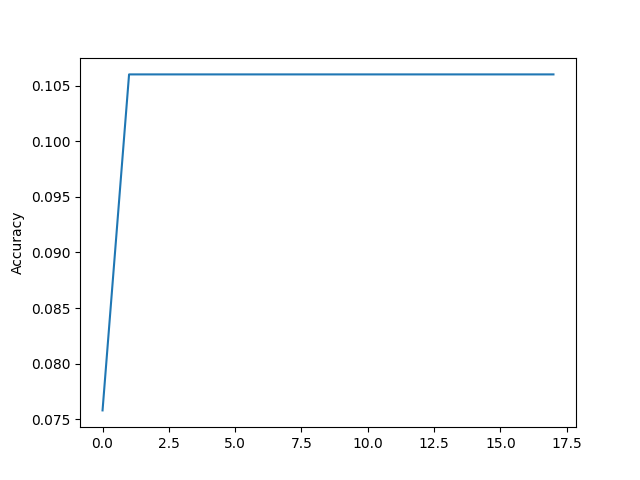
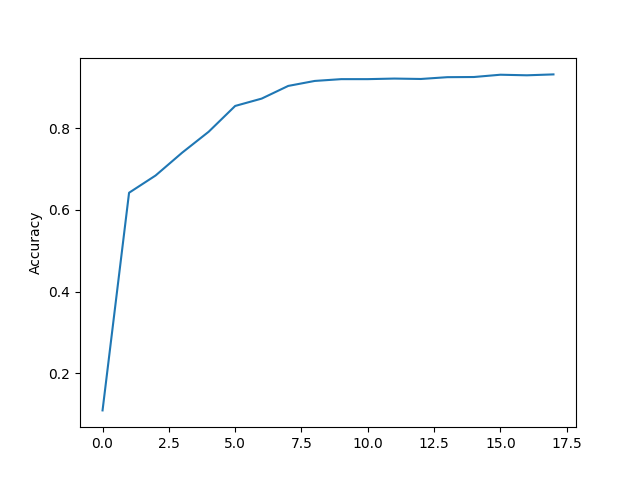
Finish part 1

diff --git a/handout1/hw1/mnist.py b/handout1/hw1/mnist.py
@@ -1,6 +1,6 @@
 """Problem 3 - Training on MNIST"""
 import numpy as np
-import torch
+
 # TODO: Import any mytorch packages you need (XELoss, SGD, etc)
 
 # NOTE: Batch size pre-set to 100. Shouldn't need to change.
@@ -19,10 +19,10 @@ def mnist(train_x, train_y, val_x, val_y):
     """Problem 3.1: Initialize objects and start training
     You won't need to call this function yourself.
     (Data is provided by autograder)
-    
+
     Args:
-        train_x (np.array): training data (55000, 784) 
-        train_y (np.array): training labels (55000,) 
+        train_x (np.array): training data (55000, 784)
+        train_y (np.array): training labels (55000,)
         val_x (np.array): validation data (5000, 784)
         val_y (np.array): validation labels (5000,)
     Returns:
@@ -32,7 +32,7 @@ def mnist(train_x, train_y, val_x, val_y):
     # TODO: Initialize an MLP, optimizer, and criterion
     my_model = Sequential(Linear(784, 20), BatchNorm1d(20), ReLU(), Linear(20, 10))
     # TODO: Call training routine (make sure to write it below)
-    optimizer = SGD(my_model.parameters(), lr=0.01, momentum=0.2)
+    optimizer = SGD(my_model.parameters(), lr=0.001, momentum=0.9)
     criterion = CrossEntropyLoss()
     val_accuracies = train(my_model, optimizer, criterion, train_x, train_y, val_x, val_y)
     return val_accuracies
@@ -50,6 +50,7 @@ def train(model, optimizer, criterion, train_x, train_y, val_x, val_y, num_epoch
         model.train()
         np.random.seed(11785)
         np.random.shuffle(train_x)
+        np.random.seed(11785)
         np.random.shuffle(train_y)
         batches_x = np.split(train_x, train_x.shape[0] // BATCH_SIZE)
         batches_y = np.split(train_y, train_y.shape[0] // BATCH_SIZE)
@@ -60,7 +61,6 @@ def train(model, optimizer, criterion, train_x, train_y, val_x, val_y, num_epoch
             out = model(tensor_data)
             loss = criterion(out, tensor_label)
             loss.backward()
-            print('loss:', loss.data)
             optimizer.step()
             if i % 100 == 0:
                 accuracy = validate(model, val_x, val_y)
@@ -93,4 +93,5 @@ def validate(model, val_x, val_y):
         # print(cnt)
         # accuracy += cnt / len(labels)
     # return accuracy / (val_y.shape[0] // BATCH_SIZE)
+    model.train()
     return cnt / val_y.shape[0]

diff --git a/handout1/mytorch/autograd_engine.py b/handout1/mytorch/autograd_engine.py
@@ -12,7 +12,10 @@ def backward(grad_fn, grad_of_outputs):
     """
 
     # 1) Calculate gradients of final node w.r.t. to the current nodes parents
-    if grad_fn and grad_fn.function_name == "AccumulateGrad" and grad_of_outputs.data.shape != grad_fn.variable.shape:
+    if not grad_fn:
+        return
+
+    if grad_fn.function_name == "AccumulateGrad" and grad_of_outputs.data.shape != grad_fn.variable.shape:
         index_list = []
 
         for cur_idx in range(len(grad_of_outputs.data.shape)):
@@ -26,8 +29,7 @@ def backward(grad_fn, grad_of_outputs):
                 grad_of_outputs.data = np.sum(grad_of_outputs.data, axis=idx)
             else:
                 grad_of_outputs.data = np.sum(grad_of_outputs.data, axis=idx, keepdims=True)
-    if not grad_fn:
-        return
+
     new_grads = grad_fn.apply(grad_of_outputs)
 
     # 2) Pass gradient onto current node's beloved parents (recursive DFS)
